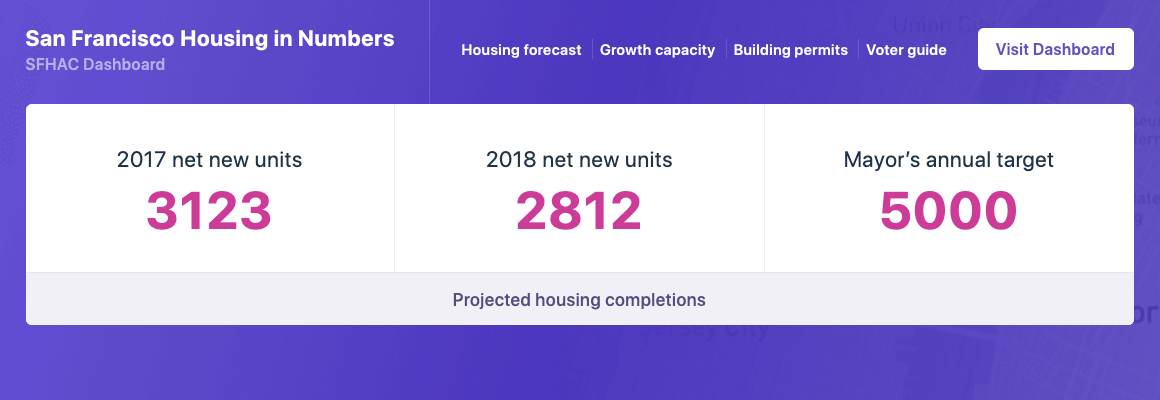
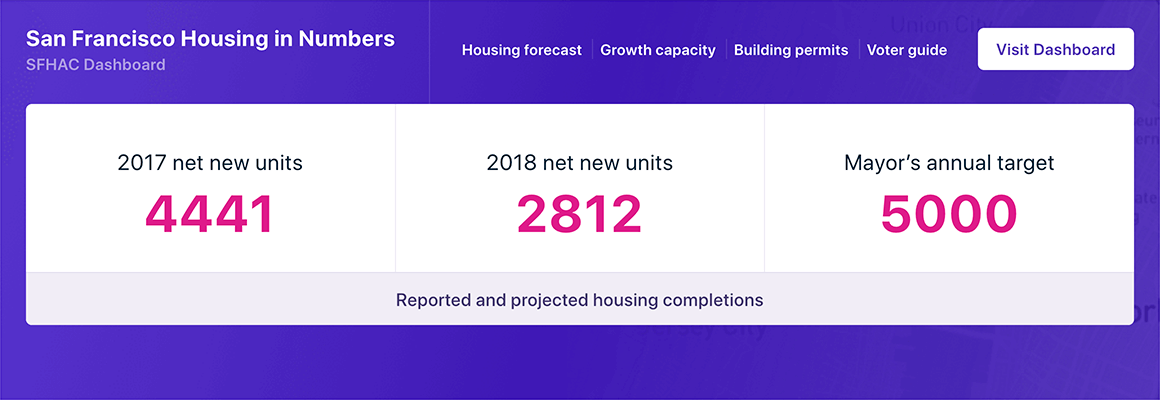
SFHAC changes

diff --git a/sfhac/index.html b/sfhac/index.html
@@ -93,7 +93,7 @@
                 <div class="box--text">Based on&nbsp;the current data, San Francisco housing production in&nbsp;2017-2018 will represent a&nbsp;nearly&nbsp;50% drop from record-high 2016 level of&nbsp;5000+&nbsp;units.</div>
               </div>
               <div class="counters">
-                <div class="counter">2017 net new units<span>3123</span></div>
+                <div class="counter">2017 net new units<span>4441</span></div>
                 <div class="counter">2018 net new units<span>2812</span></div>
                 <div class="counter">Mayor’s annual target<span>5000</span></div>
               </div>
@@ -101,7 +101,7 @@
                 <svg viewBox="0 0 10 13" width="10" height="13">
                   <path d="M7.4,3.4H10L6.8,0v2.9C6.8,3.2,7.1,3.4,7.4,3.4z"></path>
                   <path d="M7.4,3.9c-0.6,0-1.1-0.4-1.1-1V0H1.1C0.5,0,0,0.4,0,1V12c0,0.5,0.5,1,1.1,1h4.2h2.6h1.1c0.6,0,1.1-0.4,1.1-1 V3.9H7.4z"></path>
-                </svg>Source — <a href="https://statecraft.one/sf">Housing Completions Report by Statecraft, Fall 2017</a>
+                </svg>Source — <a href="http://default.sfplanning.org/publications_reports/2017_Housing_Inventory.pdf">2017 San Francisco Housing Inventory</a>, <a href="https://statecraft.one/sf">Housing Completions Report by Statecraft</a>
               </div>
             </div>
             <div class="box" data-box="2">

diff --git a/sfhac-widget/less/style.less b/sfhac-widget/less/style.less
@@ -70,7 +70,7 @@ body {
 	overflow: hidden;
 	color: @white;
 	-webkit-font-smoothing: antialiased;
-	padding: 94px 26px 46px;
+	padding: 104px 26px 75px;
 
 	.size (1160px);
 	.position (relative);
@@ -134,7 +134,7 @@ body {
 
 			.display (block);
 			.position-tl (absolute, -39px, -33px);
-			.size (1px, 94px);
+			.size (1px, 104px);
 
 			@media @xs-only { margin: 0 0 0 -123px;
 				.display (block);
@@ -246,7 +246,7 @@ body {
 		text-align: center;
 		border-right: 1px solid multiply(@white, fade(#5947A0, 10));
 		letter-spacing: 0.7px;
-		padding: 30px 0 39px;
+		padding: 43px 0 46px;
 
 		.font (22px, 28px);
 
@@ -306,7 +306,7 @@ body {
 		color: #534C7F;
 		padding: 10px 0;
 
-		.font (18px, 22px, 500);
+		.font (18px, 32px, 500);
 
 		@media @xs-md { letter-spacing: 0.44px;
 			.font (16px, 22px);

diff --git a/sfhac-widget/css/style.css b/sfhac-widget/css/style.css
@@ -271,7 +271,7 @@ body *:after {
   overflow: hidden;
   color: #ffffff;
   -webkit-font-smoothing: antialiased;
-  padding: 94px 26px 46px;
+  padding: 104px 26px 75px;
   width: 1160px;
   height: auto;
   position: relative;
@@ -400,7 +400,7 @@ body *:after {
   bottom: auto;
   left: -33px;
   width: 1px;
-  height: 94px;
+  height: 104px;
 }
 @media (max-width: 853px) {
   .ol-sfhac--features:before {
@@ -559,7 +559,7 @@ body *:after {
   text-align: center;
   border-right: 1px solid #eeedf6;
   letter-spacing: 0.7px;
-  padding: 30px 0 39px;
+  padding: 43px 0 46px;
   font-size: 22px;
   line-height: 28px;
 }
@@ -625,7 +625,7 @@ body *:after {
   color: #534C7F;
   padding: 10px 0;
   font-size: 18px;
-  line-height: 22px;
+  line-height: 32px;
   font-weight: 500;
 }
 @media (max-width: 1159px) {

diff --git a/sfhac-widget/index.html b/sfhac-widget/index.html
@@ -51,11 +51,11 @@
         <div class="ol-sfhac--btn"><a href="#">Visit Dashboard</a></div>
         <div class="ol-sfhac--counters">
           <div class="ol-sfhac--cols">
-            <div class="ol-sfhac--counter">2017 net new units<span>3123</span></div>
+            <div class="ol-sfhac--counter">2017 net new units<span>4441</span></div>
             <div class="ol-sfhac--counter">2018 net new units<span>2812</span></div>
             <div class="ol-sfhac--counter">Mayor’s annual target<span>5000</span></div>
           </div>
-          <div class="ol-sfhac--label">Projected housing completions</div>
+          <div class="ol-sfhac--label">Reported and projected housing completions</div>
         </div>
       </div>
       <!-- widget #2 end-->
